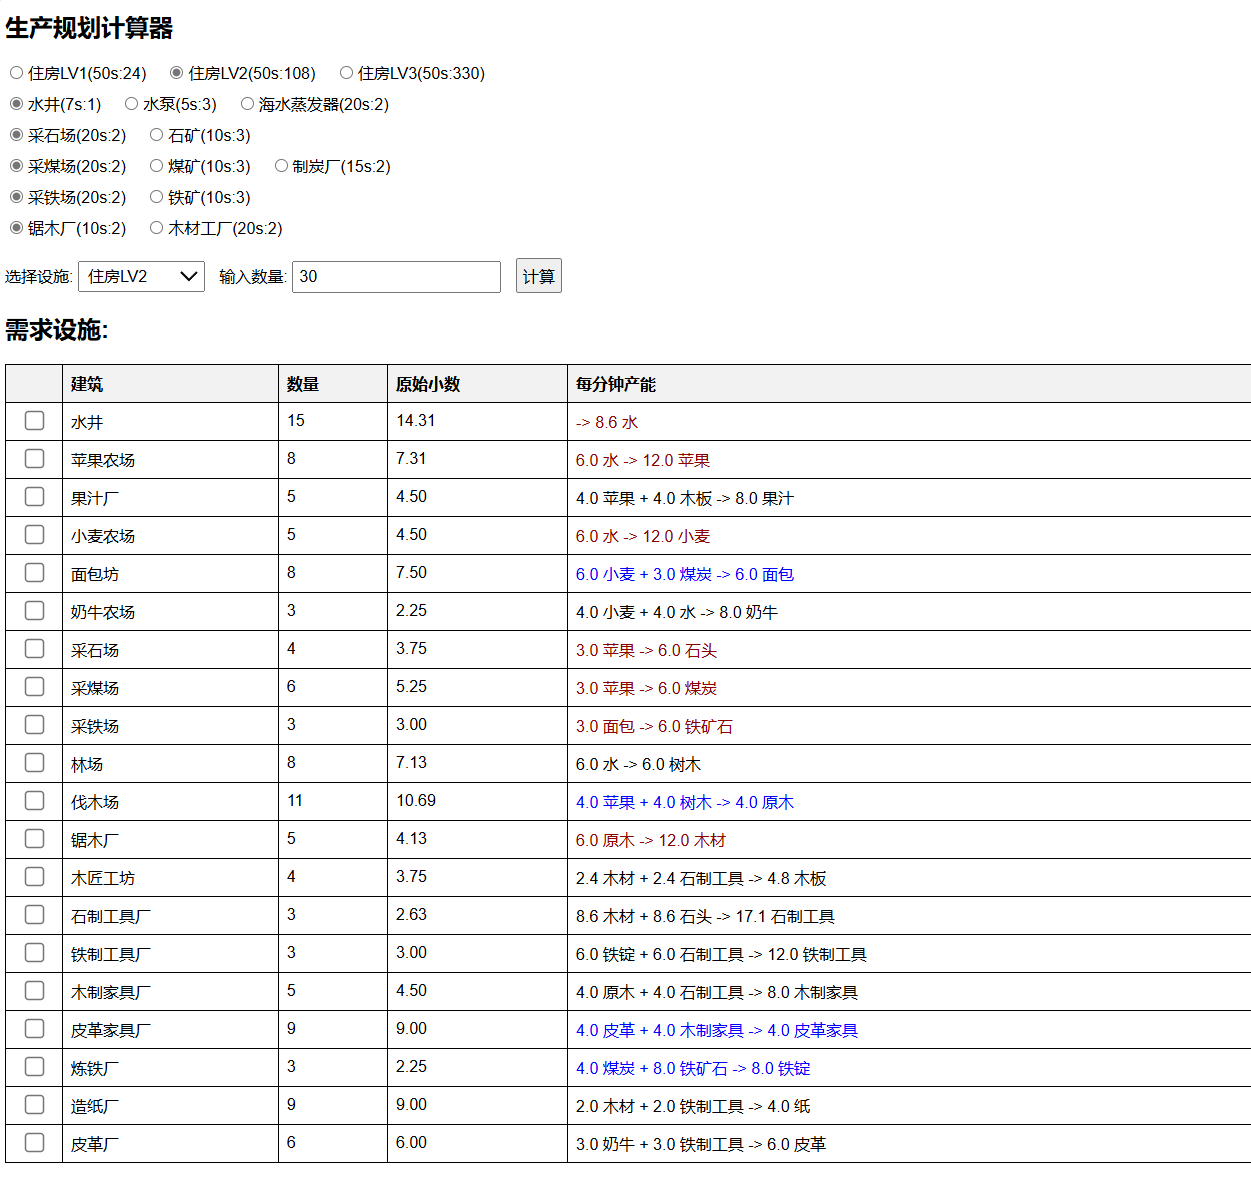
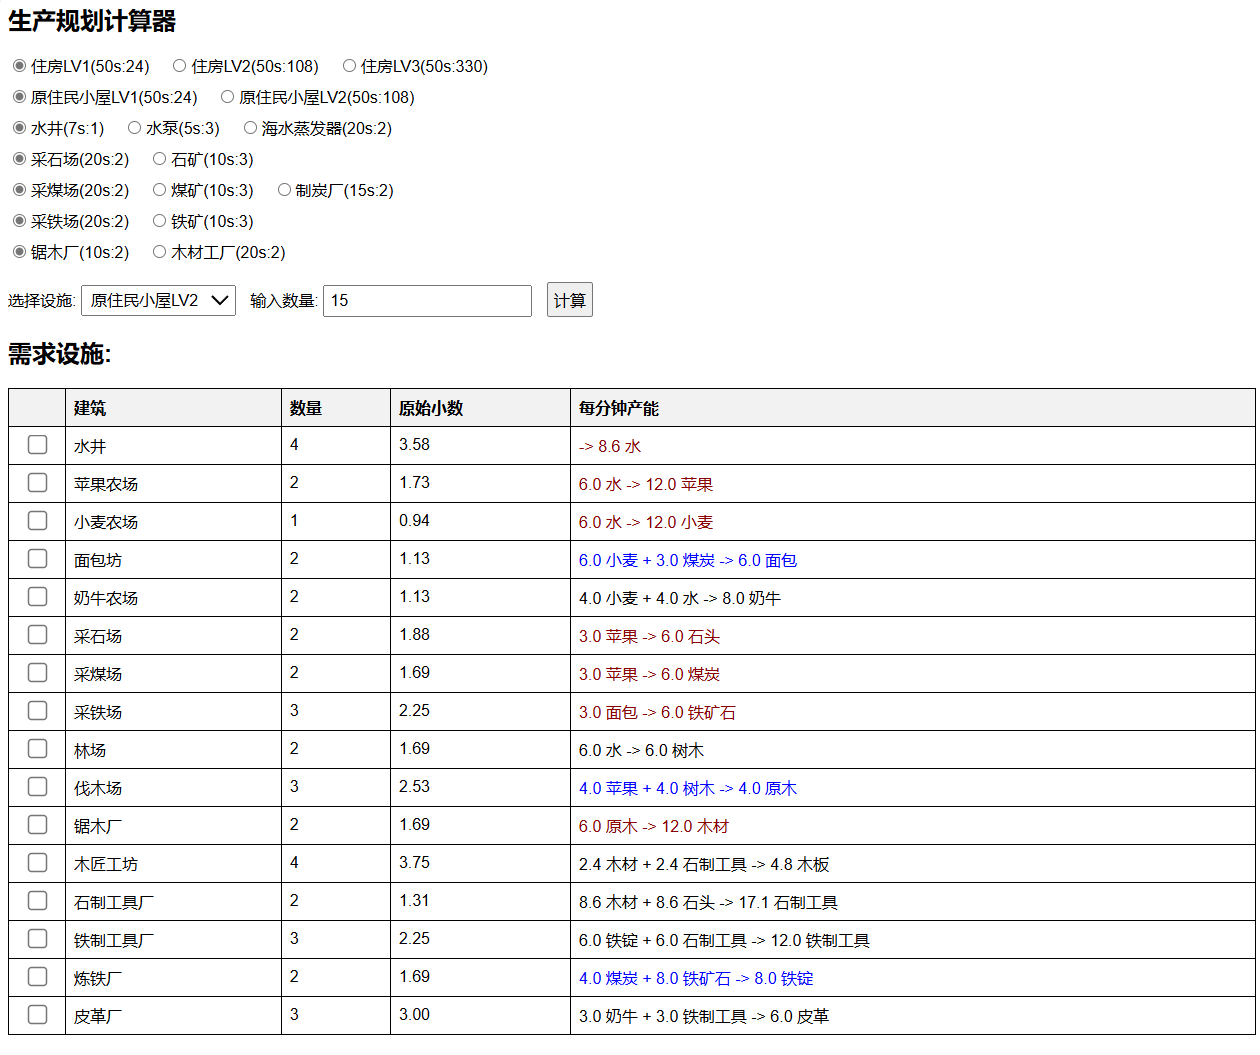
添加原住民小屋LV1 LV2

diff --git a/index.html b/index.html
@@ -107,6 +107,16 @@
           input: { 牛奶: 1, 三明治: 1, 书: 1, 高档家具: 1 },
           time: 50,
         },
+        原住民小屋LV1: {
+          output: { 原住民: 24 },
+          input: { 苹果: 1, 石制工具: 1 },
+          time: 50,
+        },
+        原住民小屋LV2: {
+          output: { 原住民: 108 },
+          input: { 木板: 1, 铁制工具: 1, 皮革: 1 },
+          time: 50,
+        },
         水井: {
           output: { 水: 1 },
           input: {},
